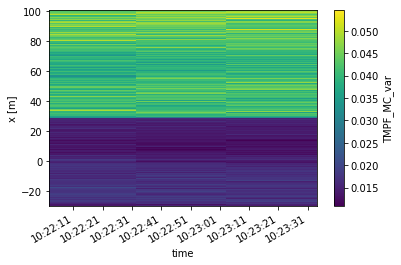
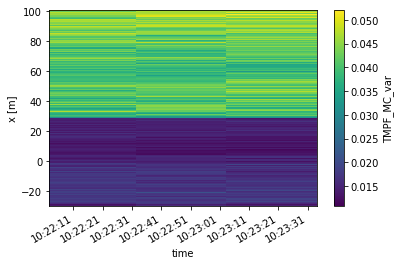
See if running python docs/nb_examples_to_docs.py locally does work

diff --git a/docs/examples/notebooks/05Calibrate_single_wls.ipynb.rst b/docs/examples/notebooks/05Calibrate_single_wls.ipynb.rst
@@ -207,7 +207,7 @@ Lets compare our calibrated values with the device calibration
 
 .. parsed-literal::
 
-    <matplotlib.legend.Legend at 0x1c165c7160>
+    <matplotlib.legend.Legend at 0x1c212280b8>
 
 
 
@@ -224,7 +224,7 @@ Lets compare our calibrated values with the device calibration
 
 .. parsed-literal::
 
-    <matplotlib.collections.QuadMesh at 0x1c165ff630>
+    <matplotlib.collections.QuadMesh at 0x1c22a69780>
 
 
 
@@ -245,7 +245,7 @@ Lets compare our calibrated values with the device calibration
 
 .. parsed-literal::
 
-    <matplotlib.legend.Legend at 0x1c165d4320>
+    <matplotlib.legend.Legend at 0x10cf03f60>
 
 
 
@@ -267,7 +267,7 @@ this should be around 0.005929 degC.
 
 .. parsed-literal::
 
-    [<matplotlib.lines.Line2D at 0x10225fa90>]
+    [<matplotlib.lines.Line2D at 0x1c22ac9b70>]
 
 
 
@@ -295,7 +295,7 @@ Lets have a look at the Stokes and anti-Stokes signal.
 
 .. parsed-literal::
 
-    [<matplotlib.lines.Line2D at 0x312188cf8>]
+    [<matplotlib.lines.Line2D at 0x10dc82cf8>]
 
 
 

diff --git a/docs/examples/notebooks/07Calibrate_double_wls.ipynb.rst b/docs/examples/notebooks/07Calibrate_double_wls.ipynb.rst
@@ -168,8 +168,8 @@ confidence interval 'coordinates'.
         c_var                  (time) float64 6.632e-07 6.632e-07 6.632e-07 ...
         TMPF                   (x, time) float64 dask.array<shape=(787, 6), chunksize=(787, 1)>
         TMPB                   (x, time) float64 dask.array<shape=(787, 6), chunksize=(787, 1)>
-        TMPF_MC                (CI, x, time) float64 16.03 16.27 15.53 15.77 ...
-        TMPB_MC                (CI, x, time) float64 15.5 15.54 15.68 15.39 ...
+        TMPF_MC                (CI, x, time) float64 16.05 16.27 15.57 15.86 ...
+        TMPB_MC                (CI, x, time) float64 15.56 15.68 15.65 15.31 ...
         TMPF_MC_var            (x, time) float64 dask.array<shape=(787, 6), chunksize=(787, 1)>
         TMPB_MC_var            (x, time) float64 dask.array<shape=(787, 6), chunksize=(787, 1)>
 

diff --git a/docs/examples/notebooks/03Calculate_variance_Stokes.ipynb.rst b/docs/examples/notebooks/03Calculate_variance_Stokes.ipynb.rst
@@ -116,7 +116,7 @@
 
 .. parsed-literal::
 
-    [<matplotlib.lines.Line2D at 0x1c1607dcf8>]
+    [<matplotlib.lines.Line2D at 0x1c232c6eb8>]
 
 
 
